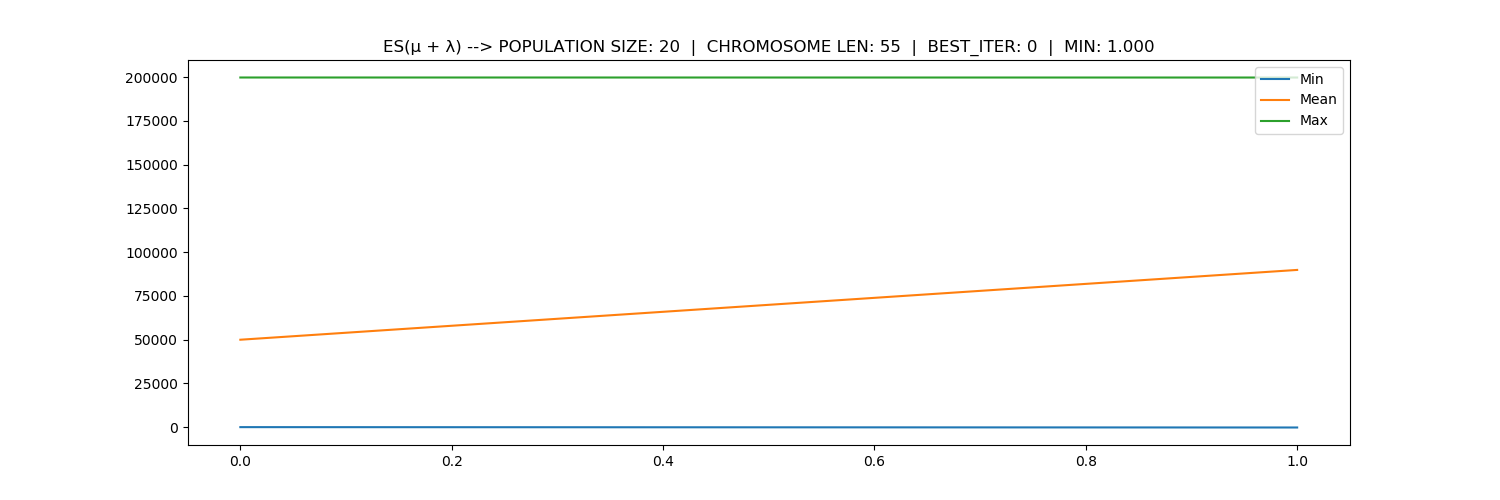
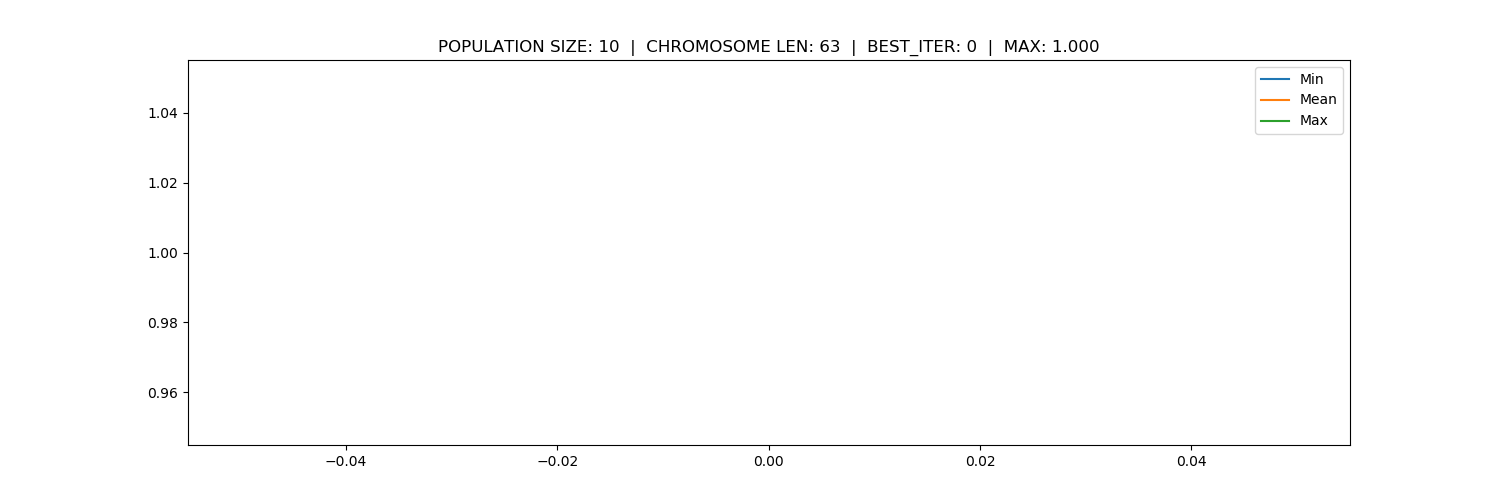
new update

diff --git a/genetic_algorithms/genetic_algorithm.py b/genetic_algorithms/genetic_algorithm.py
@@ -12,8 +12,8 @@ class GA:
         n_sensors,
         population_size,
         chromosome_len,
-        K=0.6, tau0=None, tau1=None,
-        n_samples=100000, n_epochs=300, l_rate=0.3
+        K=0.9, tau0=None, tau1=None,
+        n_samples=10000, n_epochs=100, l_rate=0.1
     ):
         '''
         Args:
@@ -40,7 +40,7 @@ class GA:
             self.tau1 = K / np.sqrt(2 * self.d)
 
         self.population = np.random.uniform(0, 1, size=(self.population_size, self.d))
-        self.sigmas = np.random.uniform(0, 0.01, size=(self.population_size, self.d))
+        self.sigmas = np.random.uniform(0, 0.05, size=(self.population_size, self.d))
 
         self.cost = np.ones(self.population_size)
         self.cost_history = []
@@ -117,9 +117,17 @@ class GA:
             out_dim=2
         )
 
-        x_shape = (self.n_samples, self.n_sensors + 2)
-        X_train1 = torch.Tensor(np.random.uniform(0, 2000, size=x_shape))
-        X_train2 = torch.Tensor(np.random.uniform(0, 2000, size=x_shape))
+        X_train1 = np.hstack((
+            np.random.uniform(0, 800, size=(self.n_samples, self.n_sensors)),
+            np.random.uniform(0, 10, size=(self.n_samples, 1)),    # velocity
+            np.random.uniform(-90, 90, size=(self.n_samples, 1)),  # angle
+        ))
+        X_train2 = np.hstack((
+            np.random.uniform(0, 800, size=(self.n_samples, self.n_sensors)),
+            np.random.uniform(0, 10, size=(self.n_samples, 1)),    # velocity
+            np.random.uniform(-90, 90, size=(self.n_samples, 1)),  # angle
+        ))
+        X_train1, X_train2 = torch.Tensor(X_train1), torch.Tensor(X_train2)
 
         y_train1 = net1(X_train1).detach().numpy()
         y_train2 = net1(X_train2).detach().numpy()
@@ -132,7 +140,7 @@ class GA:
 
         def loss_fun(x, x_hat):
             loss = torch.sum((x - x_hat) ** 2)
-            return loss
+            return loss / x.size(0)
 
         child_net.train()
         for i in range(self.n_epochs):
@@ -145,6 +153,8 @@ class GA:
             # print(f'Step: {i + 1} / {self.n_epochs} | Loss: {loss}')
         child_net.eval()
 
+        # print(f'Step: {i + 1} / {self.n_epochs} | Loss: {loss}')
+
         all_params = []
         with torch.no_grad():
             for name, p in child_net.named_parameters():
@@ -152,41 +162,74 @@ class GA:
 
         return np.array(all_params)
 
-    def mutation(self, parents, sigmas):
-        X = parents
-        Sigmas = sigmas
+    def crossover2(self, parent1, parent2):
+        child1, child2 = [], []
+        for i in range(len(parent1)):
+            coin_toss = np.random.randint(0, 2)
+            if coin_toss % 2 == 0:
+                child1.append(parent1[i])
+                child2.append(parent2[i])
+            else:
+                child1.append(parent2[i])
+                child2.append(parent1[i])
+        return child1, child2
+
+    def mutation(self):
+        X = self.population
+        Sigmas = self.sigmas
 
         E = np.random.normal(0, self.tau1, size=Sigmas.shape)
         eps_o = np.random.normal(0, self.tau0)
         Sigmas *= np.exp(E + eps_o)
 
-        return X + np.random.normal(0, 1, size=Sigmas.shape) * Sigmas, Sigmas
+        self.population = X + np.random.normal(0, 1, size=Sigmas.shape) * Sigmas
+        self.sigmas = Sigmas
+
+    def mutation2(self):
+        self.population += np.random.normal(0, 0.1, size=self.population.shape)
 
     def select_new_population(self):
         ids = self.parents_selection()
         parents = self.population[ids]
-        parent_sigmas = self.sigmas[ids]
+        # parent_sigmas = self.sigmas[ids]
 
         assert(len(self.population) == len(parents) == self.population_size)
 
-        children = []
+        children, children_sigmas = [], []
         desc = 'Creating offspring...'
-        for i in tqdm(range(self.population_size), position=0, desc=desc):
+        for i in tqdm(range(self.population_size // 2), position=0, desc=desc):
             parents_ids = random.sample(range(len(parents)), 2)
-            child = self.crossover(
+
+            # Neural networks crossover
+            # child = self.crossover(
+            #     parents[parents_ids[0]],
+            #     parents[parents_ids[1]]
+            # )
+            # children.append(child)
+            # child_sigmas = (
+            #     parent_sigmas[parents_ids[0]] + parent_sigmas[parents_ids[1]]
+            # ) / 2
+            # children_sigmas.append(child_sigmas)
+
+            # Simple toin coss over genotypes
+            siblings = self.crossover2(
                 parents[parents_ids[0]],
                 parents[parents_ids[1]]
             )
-            children.append(child)
+            children.append(siblings[0])
+            children.append(siblings[1])
 
         children = np.array(children)
         self.population = children
+        self.sigmas = np.array(children_sigmas)
 
-        # self.population, self.sigmas = self.mutation(children, children_sigmas)
+        # self.mutation()
+        self.mutation2()
 
+        # self.population_history.append(self.population)
         self.cost_history.append(
-            (self.cost.min(), self.cost.mean(), self.cost.max()))
-        self.population_history.append(self.population)
+            (self.cost.min(), self.cost.mean(), self.cost.max())
+        )
         self.sigmas_history.append(
             self.sigmas.mean(axis=0)  # mean of sigmas in population
         )
@@ -202,10 +245,9 @@ class GA:
         self.cost_history = np.array(self.cost_history)
         plt.figure(figsize=(15, 5))
         plt.plot(self.cost_history)
-        mini_id = self.cost_history[:, 0].argmax()
-        mini_val = self.cost_history[:, 0][mini_id]
-        desc = 'ES(µ + λ)'
-        plt.title(f'{desc} --> POPULATION SIZE: {self.population_size}  |  CHROMOSOME LEN: {self.d}  |  BEST_ITER: {mini_id}  |  MIN: {mini_val :.3f}')
+        maxi_id = self.cost_history[:, 0].argmax()
+        maxi_val = self.cost_history[:, 0][maxi_id]
+        plt.title(f'POPULATION SIZE: {self.population_size}  |  CHROMOSOME LEN: {self.d}  |  BEST_ITER: {maxi_id}  |  MAX: {maxi_val :.3f}')
         plt.legend(['Min', 'Mean', 'Max'], loc='upper right')
         plt.savefig('plots/cost.png')
 

diff --git a/main.py b/main.py
@@ -21,8 +21,7 @@ CHECKPOINT_AWARD = {
 
 }
 
-BEST_CARS = json.load(open('cars/track1_best_cars.json', encoding='utf-8'))
-BEST_CARS = {float(k): v for k, v in BEST_CARS.items()}
+BEST_CARS = {}
 N_BEST_CARS = 5
 actual_best = 0
 
@@ -110,10 +109,16 @@ def draw_objective_values(win, model, draw=False):
     win.blit(objective_values_plot, dest=(700, 350))
 
 
-def load_best_cars(model, cars_list):
+def load_best_cars(model, cars_list, s):
+    global BEST_CARS
+    path = f'cars/track1_best_cars_{s}sensors.json'
+    BEST_CARS = json.load(open(path, encoding='utf-8'))
+    BEST_CARS = {float(k): v for k, v in BEST_CARS.items()}
     for i, t in enumerate(BEST_CARS.items()):
-        cars_list[i].genotype = np.array(t[1])
-        cars_list[i].objective_value = t[0]
+        if i >= len(cars_list):
+            break
+        # cars_list[i].genotype = np.array(t[1])
+        # cars_list[i].objective_value = t[0]
         model.population[i] = np.array(t[1])
 
 
@@ -146,12 +151,11 @@ def update_cars_population(genetic_model, cars_list, win):
     # print(f'Objective values gen {n_gen - 1}:\n{objective_values}\n')
     genetic_model.cost = objective_values
     new_genotypes, ids = genetic_model.select_new_population()
-    ids = set(ids)
-    print(f'Best cars: {ids}')
+
     for i, c in enumerate(cars_list):
         sprite_path = 'images/cars/car.png'
-        if c.id in ids:
-            sprite_path = 'images/cars/car2.png'
+        # if c.id in ids:
+        #     sprite_path = 'images/cars/car2.png'
 
         BEST_CARS[c.objective_value] = c.genotype.tolist()
 
@@ -176,6 +180,11 @@ TODO:
 6. krzyzowanie sieci
 7. wykres kiedy skrzyzowane sieci daly cos lepszego
 8. track 3 to test track
+
+Crossovers: (choose as param)
+- random swap across genotype
+-  new individual= father1 + uniform_01_random*(father2-father1)
+- (choose to ramdom numbers A, B, then new individual is father1[1:A] concatenate with father2[A+1,B] concatenate with father1[B+1:end]
 '''
 
 if __name__ == '__main__':
@@ -197,8 +206,8 @@ if __name__ == '__main__':
     gen = font.render('Generation: 1', True, (0, 0, 255))
     top = font.render('Hall of fame (#laps):', True, (0, 0, 255))
 
-    n_cars = 20
-    n_sensors = 5
+    n_cars = 10
+    n_sensors = 7
     cars_list = [car.Car(
         id=i,
         x=TRACKS_PARAMS[track]['x'],
@@ -218,7 +227,7 @@ if __name__ == '__main__':
     '''
     Top cars into population
     '''
-    load_best_cars(genetic_model, cars_list)
+    load_best_cars(genetic_model, cars_list, n_sensors)
 
     running = True
     n_gen = 0
@@ -232,7 +241,7 @@ if __name__ == '__main__':
         if keys[pygame.K_SPACE]:  # SPACE skips to next generation
             for c in cars_list:
                 nc = CHECKPOINT_AWARD[track][c.next_checkpoint]
-                c.objective_value -= np.sqrt(
+                c.objective_value -= (  # no sqrt
                     (c.x - nc[0]) ** 2 + (c.y - nc[1]) ** 2
                 )
                 c.dead = True
@@ -266,7 +275,8 @@ if __name__ == '__main__':
             while len(BEST_CARS) > N_BEST_CARS:
                 BEST_CARS.pop(min(BEST_CARS))
 
-            with open('cars/track1_best_cars.json', 'w') as outfile:
+            out = f'cars/track1_best_cars_{n_sensors}sensors.json'
+            with open(out, 'w') as outfile:
                 json.dump(BEST_CARS, outfile, ensure_ascii=False)
 
         pygame.display.update()

diff --git a/neural_network/nn.py b/neural_network/nn.py
@@ -8,8 +8,10 @@ class Network(nn.Module):
         super(Network, self).__init__()
         self.layers = nn.Sequential(
             nn.Linear(in_dim, h1),
+            # nn.BatchNorm1d(num_features=h1),
             nn.Tanh(),
             nn.Linear(h1, h2),
+            # nn.BatchNorm1d(num_features=h2),
             nn.Tanh(),
             nn.Linear(h2, out_dim),
             nn.Tanh(),

diff --git a/cars/car.py b/cars/car.py
@@ -77,7 +77,7 @@ class Car:
         if TRACK_MAP[car_position[1], car_position[0]]:  # EVALUATE CAR
             self.dead = True
             nc = checkpoints[self.next_checkpoint]
-            d = np.sqrt((self.x - nc[0]) ** 2 + (self.y - nc[1]) ** 2)
+            d = ((self.x - nc[0]) ** 2 + (self.y - nc[1]) ** 2)  # no sqrt
             self.objective_value -= d
             return
 
